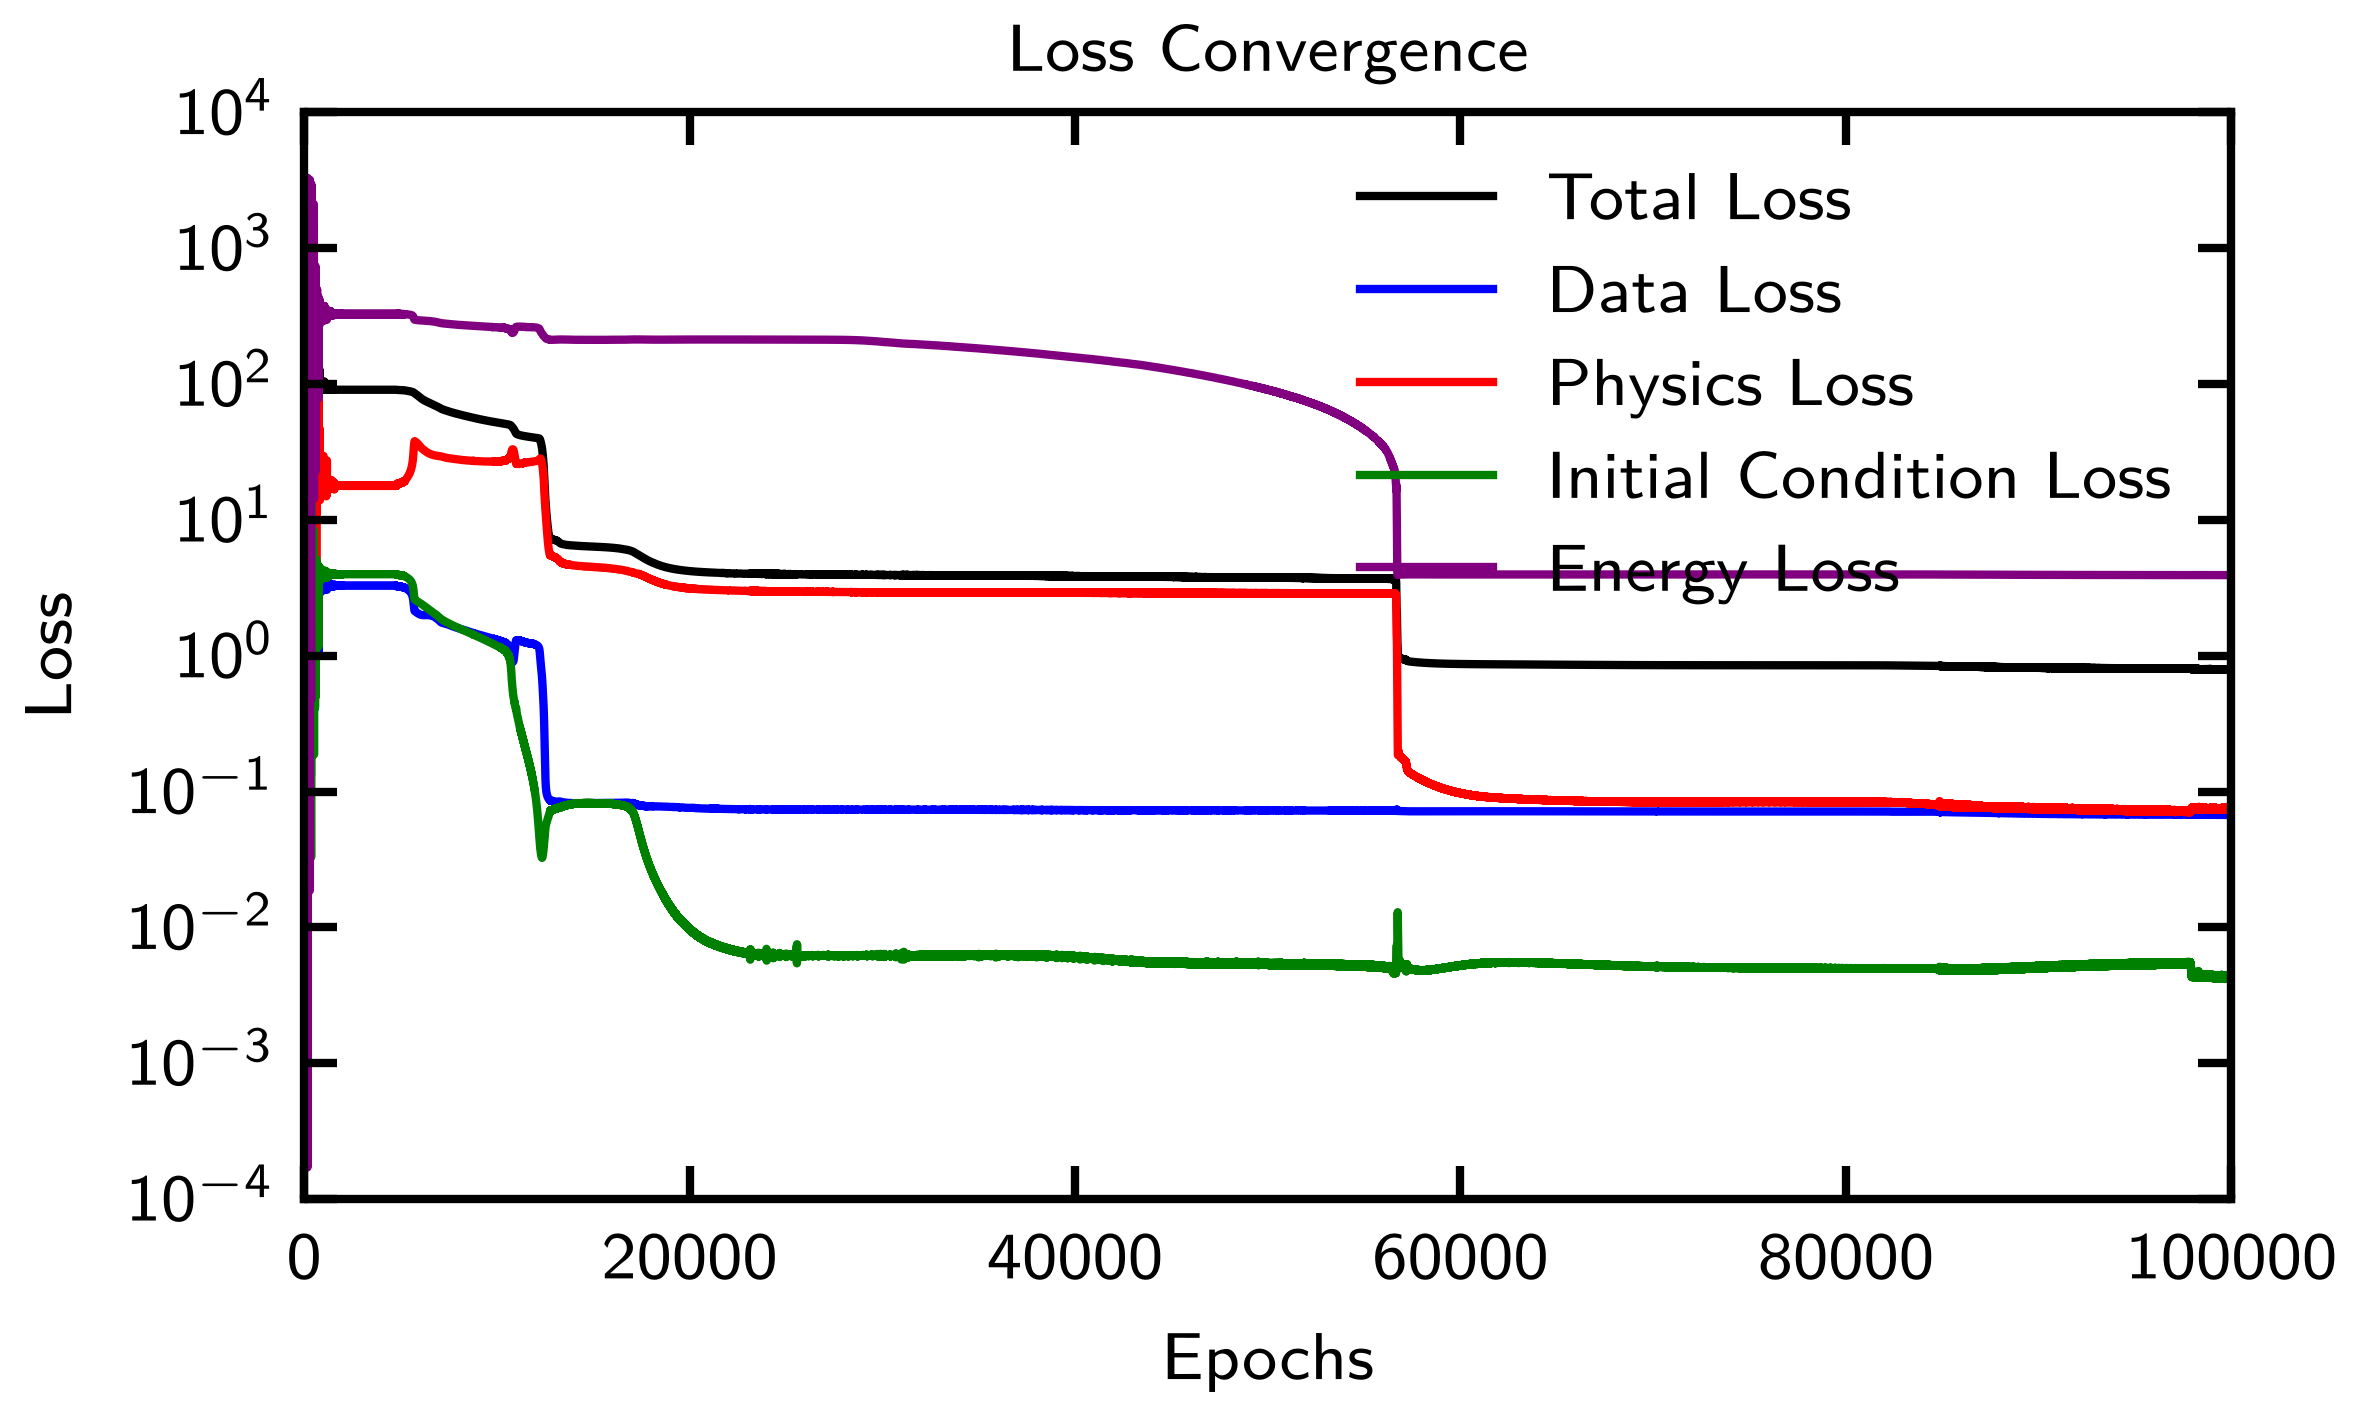
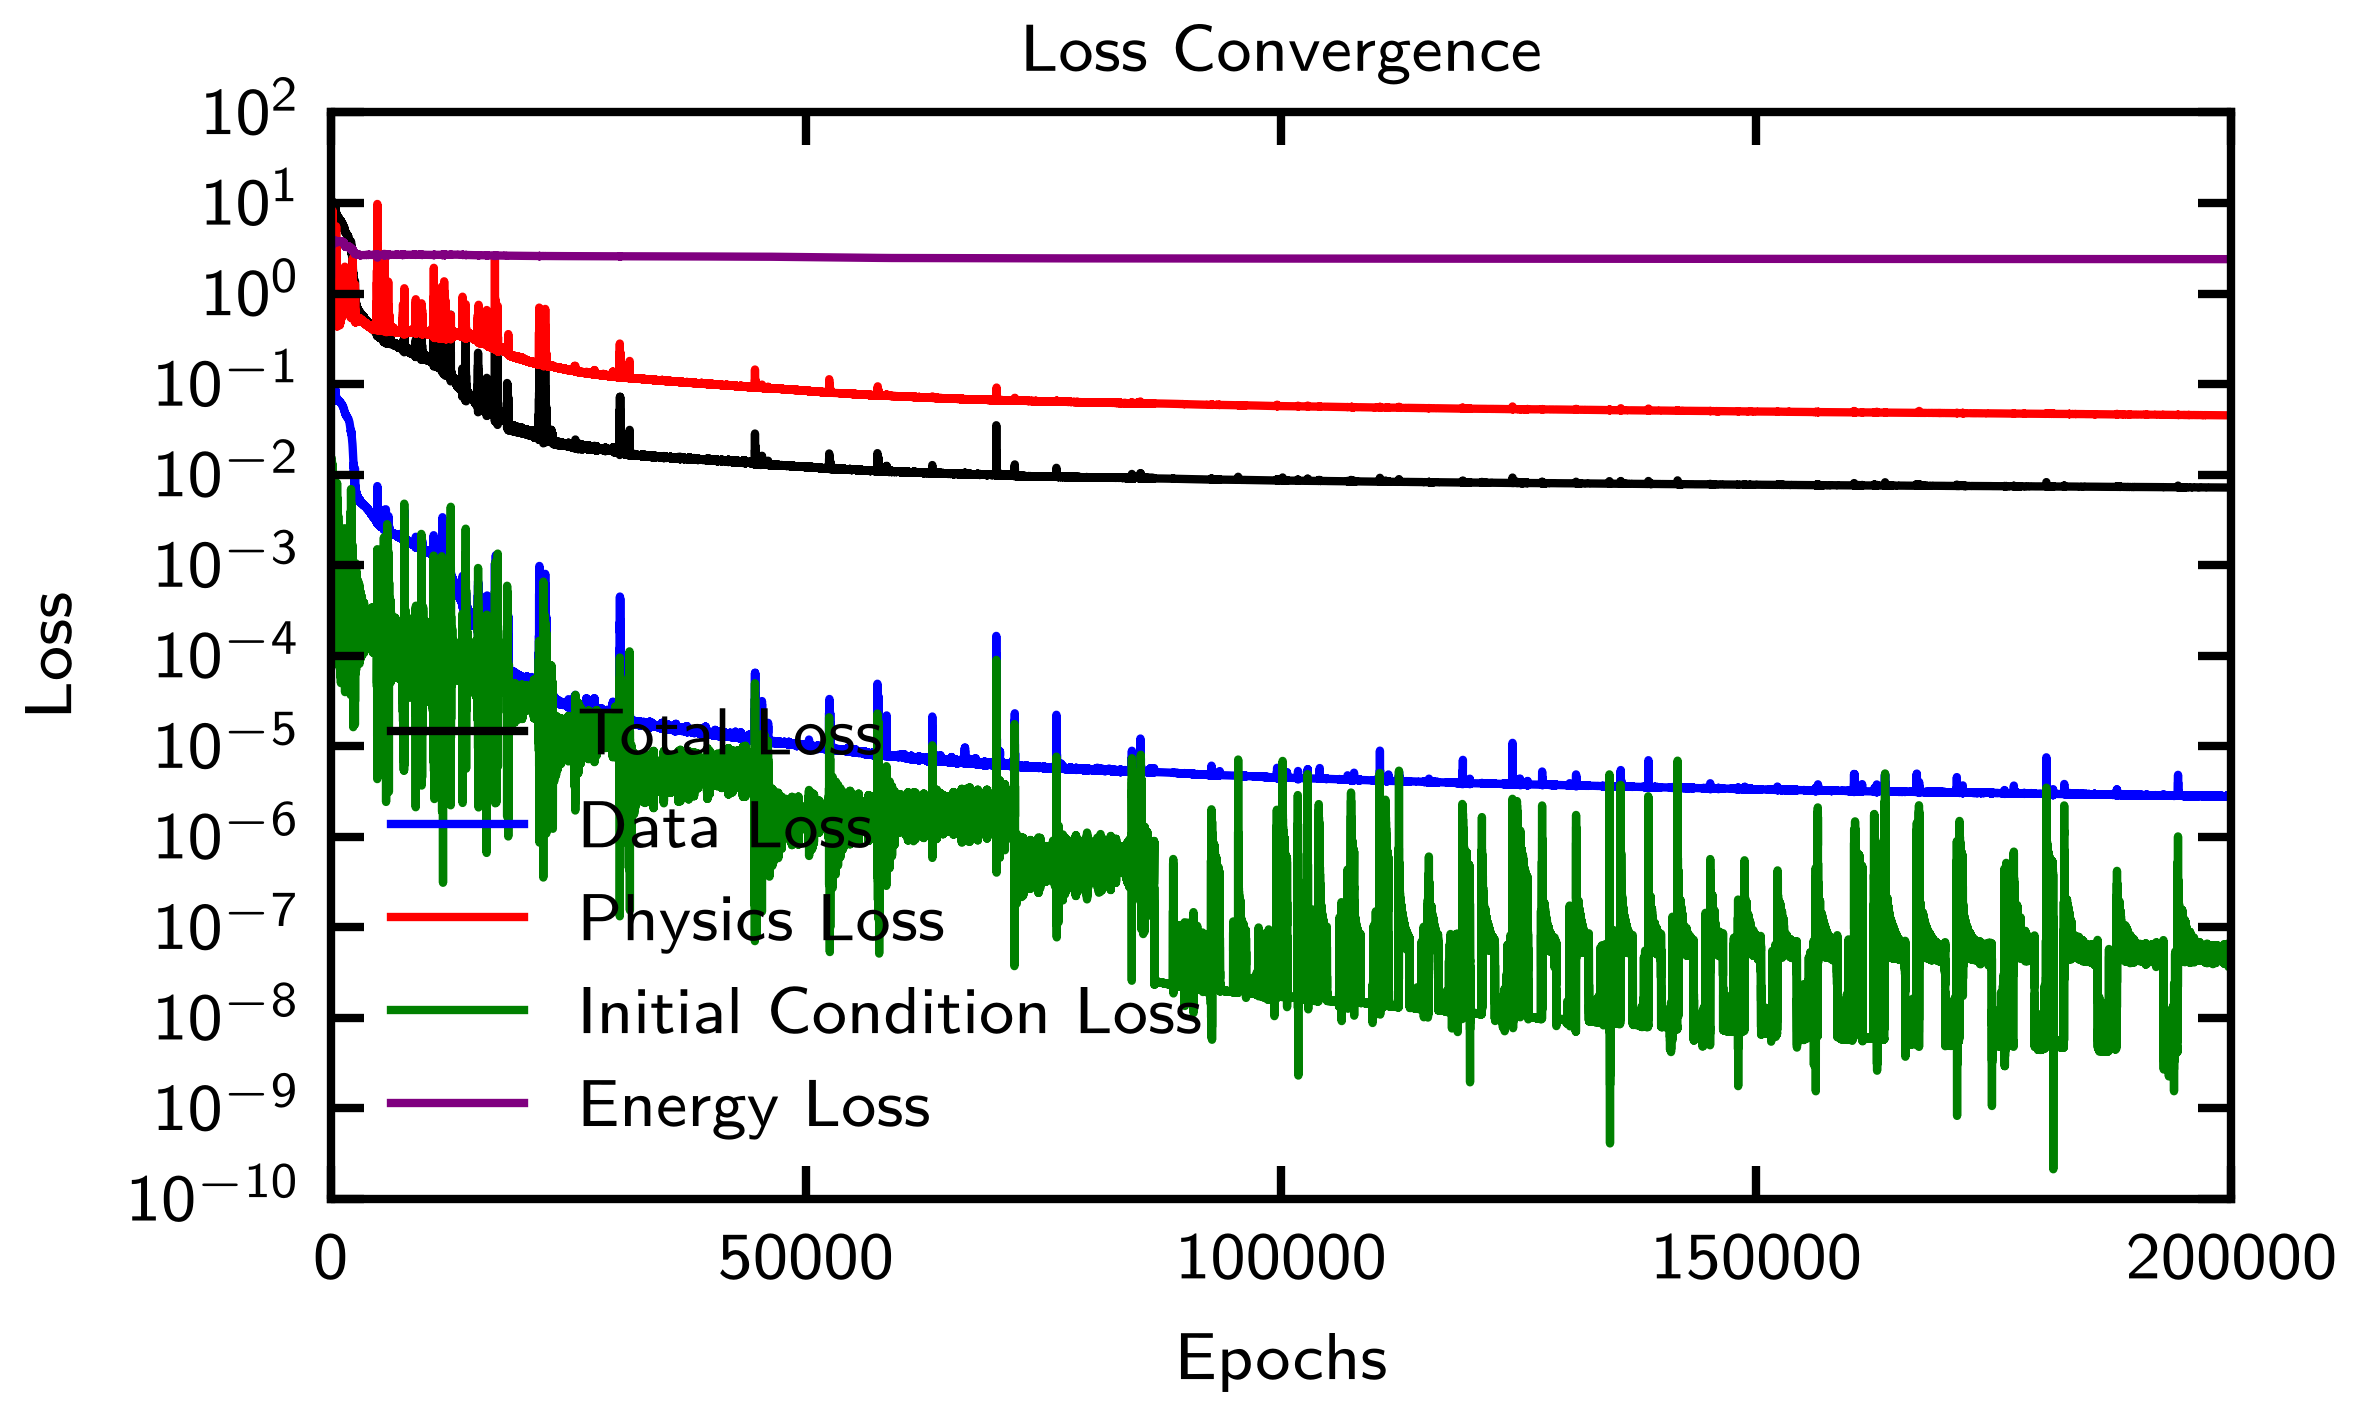
update PINNs

diff --git a/Double-Pendulum/tpinn2_ver2.py b/Double-Pendulum/tpinn2_ver2.py
@@ -78,7 +78,7 @@ OUTPUT_PREFIX = "tpinn2"
 LOG_FILE = OUTPUT_DIR / "TPINN2.log"
 
 SEED = 0
-EPOCHS = 100000
+EPOCHS = 200000
 SNAPSHOT_EVERY = 1000
 PRINT_EVERY = 100
 PHYSICS_POINTS = 3000
@@ -88,9 +88,7 @@ DATA_STOP = 1000
 DATA_STEP = 10
 
 LEARNING_RATE = 1e-3
-LR_FACTOR = 0.5
-LR_PATIENCE = 1000
-LR_MIN = 1e-6
+WEIGHT_DECAY = 1e-4
 
 LAMBDA_DATA = 100.0
 LAMBDA_PHYSICS = 0.1
@@ -192,6 +190,8 @@ class DoublePendulumPINN(nn.Module):
             nn.Tanh(),
             nn.Linear(64, 64),
             nn.Tanh(),
+            nn.Linear(64, 64),
+            nn.Tanh(),
             nn.Linear(64, 2),
         )
 
@@ -281,10 +281,7 @@ def save_log(device, data_total, epoch, loss, r2_1, r2_2, runtime, lr):
         f"l2: {l2}",
         f"g: {g}",
         f"Initial learning rate: {LEARNING_RATE}",
-        f"Scheduler factor: {LR_FACTOR}",
-        f"Scheduler patience: {LR_PATIENCE}",
-        f"Scheduler min LR: {LR_MIN}",
-        f"Current learning rate: {lr:.6e}",
+        f"Weight decay: {WEIGHT_DECAY}",
         f"Lambda data: {LAMBDA_DATA}",
         f"Lambda physics: {LAMBDA_PHYSICS}",
         f"Lambda initial: {LAMBDA_INITIAL}",
@@ -432,15 +429,7 @@ def main():
     )[:, None]
 
     model = DoublePendulumPINN(time_min, time_max).to(device)
-    optimizer = torch.optim.Adam(model.parameters(), lr=LEARNING_RATE)
-    scheduler = torch.optim.lr_scheduler.ReduceLROnPlateau(
-        optimizer,
-        mode="min",
-        factor=LR_FACTOR,
-        patience=LR_PATIENCE,
-        min_lr=LR_MIN,
-        threshold=1e-4,
-    )
+    optimizer = torch.optim.AdamW(model.parameters(), lr=LEARNING_RATE, weight_decay=WEIGHT_DECAY)
 
     history = {
         name: [] for name in ("total", "data", "physics", "initial", "energy")
@@ -494,14 +483,11 @@ def main():
         history["initial"].append(initial_loss.item())
         history["energy"].append(energy_loss.item())
 
-        scheduler.step(total_loss.item())
-        current_lr = optimizer.param_groups[0]["lr"]
-
         if epoch % PRINT_EVERY == 0:
             elapsed = format_time(time.time() - start_time)
             print(
                 f"\rEpoch {epoch:6d} | Loss {total_loss.item():.6e} "
-                f"| LR {current_lr:.2e} | Time {elapsed}",
+                f"| Time {elapsed}",
                 end="",
                 flush=True,
             )
@@ -537,7 +523,7 @@ def main():
         r2_1=r2_1,
         r2_2=r2_2,
         runtime=runtime,
-        lr=optimizer.param_groups[0]["lr"],
+        lr=LEARNING_RATE,
     )
 
     print("Saving figures and animation...")
